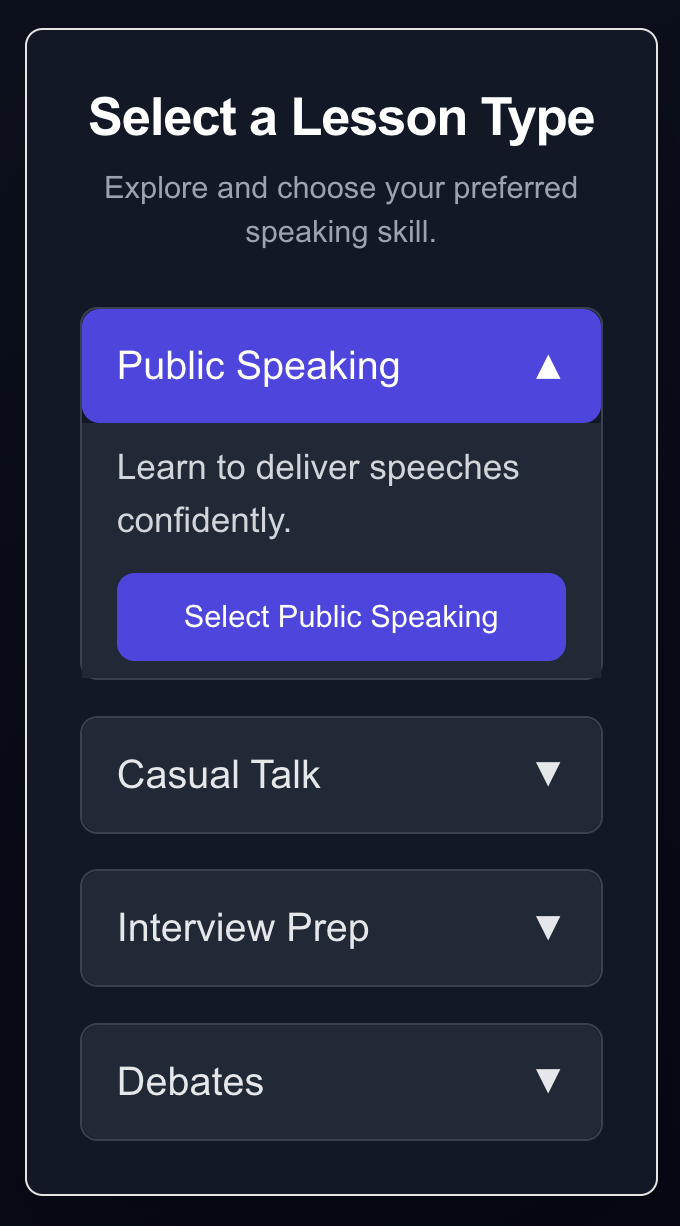
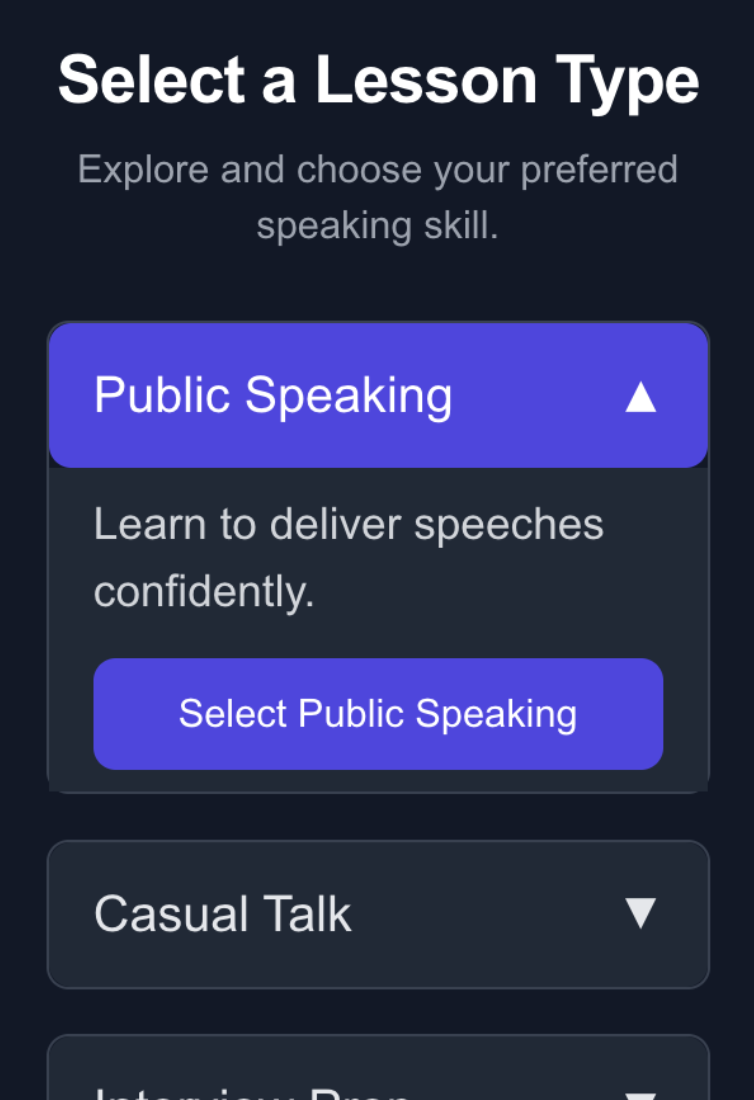
git

diff --git a/geesehacks2025-nextjs/app/page.js b/geesehacks2025-nextjs/app/page.js
@@ -33,54 +33,59 @@ export default function Home() {
           Follow these steps to start improving your speaking skills.
         </p>
 
-        <div className="grid grid-cols-1 sm:grid-cols-2 lg:grid-cols-3 gap-8">
-          <Card>
-            <CardHeader>
-              <img
-                src="/SpeakType.png"
-                alt="Choose Speaking Type"
-                className="rounded-t-lg w-full object-cover h-40"
-              />
-              <CardTitle>Step 1: Choose a Speaking Type</CardTitle>
+        <div className="flex gap-8">
+          <Card className="flex flex-shrink-[1] flex-col shadow-2xl">
+            <CardHeader className="p-0 overflow-hidden rounded-t-lg">
+              <div className="relative aspect-video w-full">
+                <img
+                  src="/SpeakType.png"
+                  alt="Choose Speaking Type"
+                  className="object-cover w-full h-full"
+                />
+              </div>
+              <CardTitle className="px-4 pt-4">Step 1: Choose a Speaking Type</CardTitle>
             </CardHeader>
-            <CardContent>
+            <CardContent className="flex-1 px-4 py-4">
               <CardDescription>
                 Select the type of speaking skill you want to practice, such as casual talk, public speaking, or interviews.
               </CardDescription>
             </CardContent>
           </Card>
 
-          <Card>
-            <CardHeader>
-              <img
-                src="/"
-                alt="Follow the Roadmap"
-                className="rounded-t-lg w-full object-cover h-40"
-              />
-              <CardTitle>Step 2: Follow the Roadmap</CardTitle>
+          <Card className="flex flex-shrink-[1.2] flex-col shadow-2xl">
+            <CardHeader className="p-0 overflow-hidden rounded-t-lg">
+              <div className="relative aspect-video w-full">
+                <img
+                  src="/Roadmap.png"
+                  alt="Follow the Roadmap"
+                  className="object-cover w-full h-full"
+                />
+              </div>
+              <CardTitle className="px-4 pt-4">Step 2: Follow the Roadmap</CardTitle>
             </CardHeader>
-            <CardContent>
+            <CardContent className="flex-1 px-4 py-4">
               <CardDescription>
                 Use our structured roadmap to practice step-by-step and track your progress.
               </CardDescription>
             </CardContent>
           </Card>
 
-          <Card>
-            <CardHeader>
-              <img
-                src="/"
-                alt="Get Feedback"
-                className="rounded-t-lg w-full object-cover h-40"
-              />
-              <CardTitle>Step 3: Get Feedback</CardTitle>
+          <Card className="flex flex-shrink-[1] flex-col shadow-2xl">
+            <CardHeader className="p-0 overflow-hidden rounded-t-lg">
+              <div className="relative aspect-video w-full bg-gray-200">
+                <img
+                  src="/Feedback.png"
+                  alt="Get Feedback"
+                  className="object-cover w-full h-full"
+                />
+              </div>
+              <CardTitle className="px-4 pt-4">Step 3: Get Feedback</CardTitle>
             </CardHeader>
-            <CardContent>
+            <CardContent className="flex-0 px-4 py-4">
               <CardDescription>
                 Receive real-time feedback on your speaking performance from Mr. Goose.
               </CardDescription>
             </CardContent>
-
           </Card>
         </div>
       </div>
